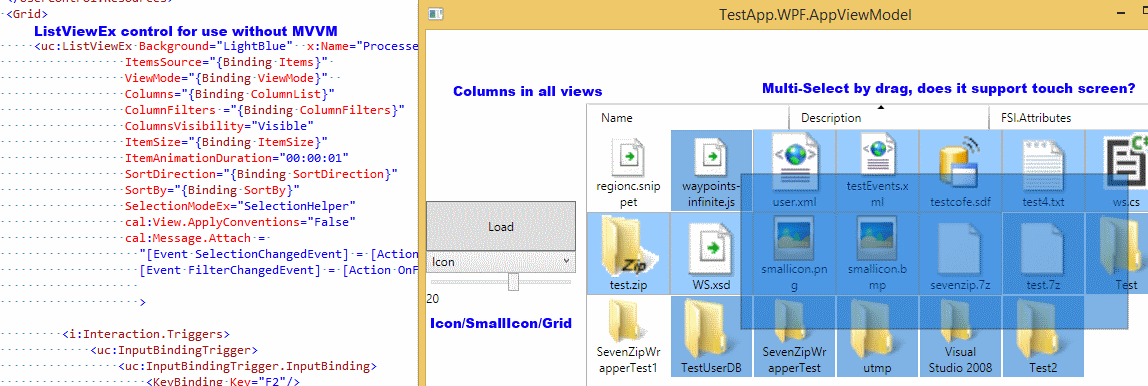
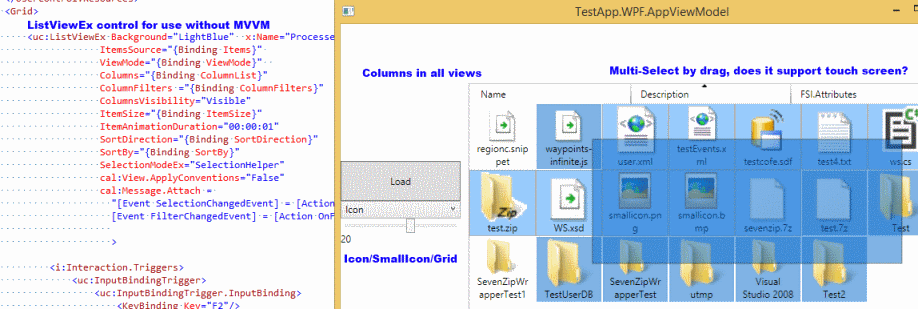
FileExplorer3: Fixed selection issue.

diff --git a/src/FileExplorer3/app/FileExplorer3/Views/FileListView.xaml b/src/FileExplorer3/app/FileExplorer3/Views/FileListView.xaml
@@ -39,15 +39,15 @@
                      ColumnFilters ="{Binding ColumnFilters}"
                      ColumnsVisibility="Visible"
                      ItemSize="{Binding ItemSize}"
-                     ItemAnimationDuration="00:00:01"
+                     ItemAnimationDuration="00:00:00"
                      SortDirection="{Binding SortDirection}"
                      SortBy="{Binding SortBy}"
                      SelectionModeEx="SelectionHelper"
                      cal:View.ApplyConventions="False"
                      cal:Message.Attach = 
                        "[Event SelectionChangedEvent] = [Action OnSelectionChanged($this.SelectedItems)];
-                       [Event FilterChangedEvent] = [Action OnFilterChanged()]"
-                       
+                       [Event FilterChangedEvent] = [Action OnFilterChanged()];
+                       [Event UnselectAllRequired] = [Action UnselectAll()]"
                        >
 
             <i:Interaction.Triggers>

diff --git a/src/FileExplorer3/app/FileExplorer3/UserControls/ListViewEx.cs b/src/FileExplorer3/app/FileExplorer3/UserControls/ListViewEx.cs
@@ -16,7 +16,7 @@ using FileExplorer.Models;
 
 namespace FileExplorer.UserControls
 {
-    public class ListViewEx : ListView
+    public class ListViewEx : ListView, IVirtualListView
     {
         #region Cosntructor
 
@@ -24,29 +24,29 @@ namespace FileExplorer.UserControls
 
         #region Methods
 
-     
+
 
         public override void OnApplyTemplate()
         {
             base.OnApplyTemplate();
             this.HandleScrollBarInvisible();
-            this.AddHandler(ListViewEx.LoadedEvent, (RoutedEventHandler)((o,e) => OnLoaded()));
-          
+            this.AddHandler(ListViewEx.LoadedEvent, (RoutedEventHandler)((o, e) => OnLoaded()));
+
         }
 
         public void OnLoaded()
         {
             ListViewColumnUtils.RegisterFilterEvent(this);
-            ListViewColumnUtils.UpdateFilterPanel(this, Columns, ColumnFilters);           
+            ListViewColumnUtils.UpdateFilterPanel(this, Columns, ColumnFilters);
         }
 
-       
+
         #region OnPropertyChanged
 
         public static void OnColumnsFilterChanged(DependencyObject sender, DependencyPropertyChangedEventArgs args)
         {
             ListViewEx lv = (ListViewEx)sender;
-            ListViewColumnUtils.UpdateFilterPanel(lv, lv.Columns, lv.ColumnFilters);           
+            ListViewColumnUtils.UpdateFilterPanel(lv, lv.Columns, lv.ColumnFilters);
         }
 
         public static void OnColumnsVisibilityChanged(DependencyObject sender, DependencyPropertyChangedEventArgs args)
@@ -86,13 +86,13 @@ namespace FileExplorer.UserControls
             SelectionModeEx selMode = (SelectionModeEx)args.NewValue;
             switch (selMode)
             {
-                case SelectionModeEx.Single : 
-                case SelectionModeEx.Multiple : 
-                case SelectionModeEx.Extended :
+                case SelectionModeEx.Single:
+                case SelectionModeEx.Multiple:
+                case SelectionModeEx.Extended:
                     SelectionHelper.SetEnableSelection(fl, false);
                     fl.SetValue(SelectionModeProperty, (SelectionMode)(int)selMode);
                     break;
-                case SelectionModeEx.SelectionHelper :
+                case SelectionModeEx.SelectionHelper:
                     SelectionHelper.SetEnableSelection(fl, true);
                     break;
             }
@@ -122,7 +122,7 @@ namespace FileExplorer.UserControls
                 {
                     ListViewColumnUtils.UpdateColumn(fl, fl.Columns);
                     fl.Dispatcher.Invoke(() =>
-                         ListViewColumnUtils.UpdateFilterPanel(fl, fl.Columns, fl.ColumnFilters), 
+                         ListViewColumnUtils.UpdateFilterPanel(fl, fl.Columns, fl.ColumnFilters),
                          System.Windows.Threading.DispatcherPriority.Input);
                 }
 
@@ -132,6 +132,12 @@ namespace FileExplorer.UserControls
                     ListViewColumnUtils.UpdateSortSymbol(fl, sortColumn, fl.SortDirection);
             }
             else Debug.WriteLine(String.Format("ListViewEx - No view defined."));
+        }
+
+        void IVirtualListView.UnselectAll()
+        {
+            this.RaiseEvent(new RoutedEventArgs(UnselectAllRequiredEvent, this));
+            this.SelectedItems.Clear();
         }
 
         #endregion
@@ -190,7 +196,7 @@ namespace FileExplorer.UserControls
 
         #endregion
 
-        #region Columns, and ColumnsVisibility property
+        #region Columns, and ColumnsVisibility property, FilterChanged event
 
         public static readonly DependencyProperty ColumnsProperty =
          DependencyProperty.Register("Columns", typeof(ListViewColumnInfo[]), typeof(ListViewEx),
@@ -217,7 +223,7 @@ namespace FileExplorer.UserControls
             get { return (ColumnFilter[])GetValue(ColumnFiltersProperty); }
             set { SetValue(ColumnFiltersProperty, value); }
         }
-     
+
         public static readonly DependencyProperty ColumnsVisibilityProperty =
         DependencyProperty.Register("ColumnsVisibility", typeof(Visibility), typeof(ListViewEx),
             new FrameworkPropertyMetadata(Visibility.Collapsed, new PropertyChangedCallback(OnColumnsVisibilityChanged)));
@@ -274,6 +280,7 @@ namespace FileExplorer.UserControls
 
         #endregion
 
+        #region SelectionMode property, UnselectAllRequired event.
         public static readonly DependencyProperty SelectionModeExProperty =
        DependencyProperty.Register("SelectionModeEx", typeof(SelectionModeEx), typeof(ListViewEx),
        new FrameworkPropertyMetadata(SelectionModeEx.Single, FrameworkPropertyMetadataOptions.BindsTwoWayByDefault,
@@ -289,6 +296,20 @@ namespace FileExplorer.UserControls
         }
 
 
+        public static readonly RoutedEvent UnselectAllRequiredEvent = EventManager.RegisterRoutedEvent("UnselectAllRequired",
+            RoutingStrategy.Bubble, typeof(RoutedEventHandler), typeof(ListViewEx));
+
+        /// <summary>
+        /// The ListView unable to deselect the items, request view model do the de-selection.
+        /// </summary>
+        public event RoutedEventHandler UnselectAllRequired
+        {
+            add { AddHandler(UnselectAllRequiredEvent, value); }
+            remove { RemoveHandler(UnselectAllRequiredEvent, value); }
+        }
+
+
+        #endregion
         public static readonly DependencyProperty ColumnHeaderSortDirectionProperty =
             DependencyProperty.RegisterAttached("ColumnHeaderSortDirection", typeof(int), typeof(ListViewEx),
             new PropertyMetadata(0));
@@ -327,9 +348,9 @@ namespace FileExplorer.UserControls
         //    set { SetValue(SelectedItemsProperty, value); }
         //}
 
-        
-        
-      
+
+
+
 
         //#region Commands
 

diff --git a/src/FileExplorer3/app/FileExplorer3/ViewModels/Actions/UnselectAll.cs b/src/FileExplorer3/app/FileExplorer3/ViewModels/Actions/UnselectAll.cs
@@ -1,0 +1,49 @@
+using System;
+using System.Collections.Generic;
+using System.Linq;
+using System.Text;
+using System.Threading.Tasks;
+using Caliburn.Micro;
+using FileExplorer.Models;
+
+namespace FileExplorer.ViewModels
+{
+    /// <summary>
+    /// Append entrylist context["EntryList"] to context.Target (IEntryListViewModel)
+    /// </summary>
+    public class UnselectAll : IResult
+    {
+        #region Cosntructor
+
+        public UnselectAll(IEnumerable<IEntryViewModel> entries)
+        {
+            _entries = entries;
+        }
+
+        #endregion
+
+        #region Methods
+
+        public event EventHandler<ResultCompletionEventArgs> Completed;
+
+        public void Execute(ActionExecutionContext context)
+        {
+            foreach (var e in _entries)
+                e.IsSelected = false;
+            Completed(this, new ResultCompletionEventArgs());
+        }
+
+        #endregion
+
+        #region Data
+
+        private IEnumerable<IEntryViewModel> _entries;
+
+        #endregion
+
+        #region Public Properties
+
+        #endregion
+       
+    }
+}

diff --git a/src/FileExplorer3/app/TestApp.WPF/AppViewModel.cs b/src/FileExplorer3/app/TestApp.WPF/AppViewModel.cs
@@ -48,10 +48,11 @@ namespace TestApp.WPF
         public IEnumerable<IResult> Load()
         {
             IProfile profile = new FileSystemInfoProfile();
-            var parentModel = profile.ParseAsync(@"c:\temp").Result;
+            var parentModel = profile.ParseAsync(@"C:\Users\lycj\Documents").Result;
             return FileListModel.Load(parentModel, null);
         }
 
+     
         public void ChangeView(string viewMode)
         {
             FileListModel.ViewMode = viewMode;
@@ -61,6 +62,8 @@ namespace TestApp.WPF
         {
             SelectionCount = message.SelectedViewModels.Count();
         }
+
+        
 
         #endregion
 

diff --git a/src/FileExplorer3/app/FileExplorer3/ViewModels/FileListViewModel.cs b/src/FileExplorer3/app/FileExplorer3/ViewModels/FileListViewModel.cs
@@ -60,6 +60,12 @@ namespace FileExplorer.ViewModels
 
         }
 
+        public IEnumerable<IResult> UnselectAll()
+        {
+            yield return new UnselectAll(Items);
+        }
+
+
         public void Rename()
         {
             if (SelectedItems.Count > 0)
